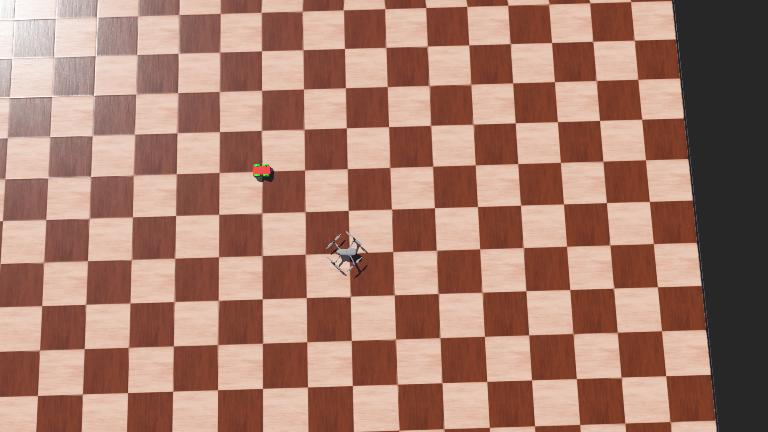
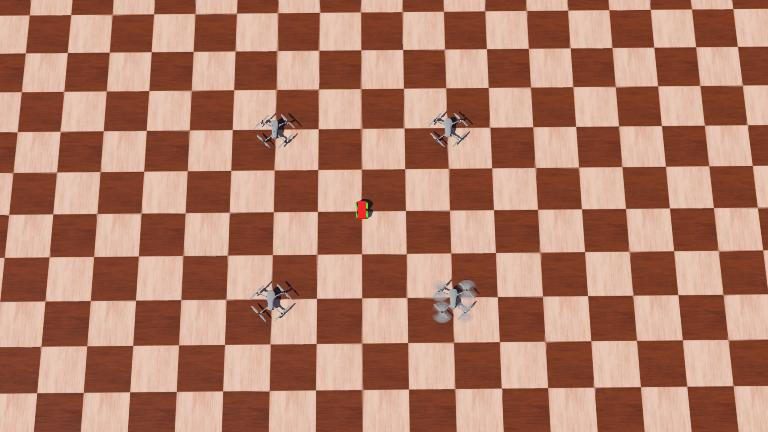
Working emitter and GPS versions

diff --git a/formation_control/formation_control/formation_controller_gps.py b/formation_control/formation_control/formation_controller_gps.py
@@ -1,0 +1,151 @@
+import rclpy
+from rclpy.node import Node
+import numpy as np
+from geometry_msgs.msg import Twist, Vector3, PointStamped, Point
+from interfaces.msg import SignalArray
+from .gradient import gradient
+from rclpy.impl import rcutils_logger
+
+
+class FormationControl(Node):
+    def __init__(self):
+        super().__init__('formation_control')
+        qos_policy = rclpy.qos.QoSProfile(reliability=rclpy.qos.ReliabilityPolicy.BEST_EFFORT,
+                                          history=rclpy.qos.HistoryPolicy.KEEP_LAST,
+                                          depth=1)
+
+        self.mavic_1_gps_sub = self.create_subscription(PointStamped, f'/Mavic_2_PRO_1/gps', self.mavic_1_gps_callback, qos_profile=qos_policy)
+        self.mavic_2_gps_sub = self.create_subscription(PointStamped, f'/Mavic_2_PRO_2/gps', self.mavic_2_gps_callback, qos_profile=qos_policy)
+        self.mavic_3_gps_sub = self.create_subscription(PointStamped, f'/Mavic_2_PRO_3/gps', self.mavic_3_gps_callback, qos_profile=qos_policy)
+        self.mavic_4_gps_sub = self.create_subscription(PointStamped, f'/Mavic_2_PRO_4/gps', self.mavic_4_gps_callback, qos_profile=qos_policy)
+
+        self.ground_pose_sub = self.create_subscription(Vector3, '/ground_robot/pose', self.ground_pose_callback, qos_profile=qos_policy)
+        self.ground_gps_sub = self.create_subscription(Vector3, '/ground_robot/gps', self.ground_gps_callback, qos_profile=qos_policy)
+        
+        self.vel_pubs = []
+        for i in range(4):
+            self.vel_pubs.append(self.create_publisher(Twist, f'/Mavic_2_PRO_{i+1}/cmd_vel', 10))
+
+        
+        self.logger = rcutils_logger.RcutilsLogger()
+
+        self.goals = np.array([[1,1],
+                              [-1,1],
+                              [-1,-1],
+                              [1,-1]])
+        
+        #self.gr_yaw = 0
+        
+        self.rot_mat = np.array([[np.cos(0), -np.sin(0)],
+                                 [np.sin(0), np.cos(0)]])
+        
+        self.mavic_pos = [[0,0], [0,0], [0,0], [0,0]]
+
+
+
+    def mavic_1_gps_callback(self, msg):
+        self.mavic_pos[0] = [msg.point.x, msg.point.y]
+
+    def mavic_2_gps_callback(self, msg):
+        self.mavic_pos[1] = [msg.point.x, msg.point.y]
+
+    def mavic_3_gps_callback(self, msg):
+        self.mavic_pos[2] = [msg.point.x, msg.point.y]
+
+    def mavic_4_gps_callback(self, msg):
+        self.mavic_pos[3] = [msg.point.x, msg.point.y]
+
+    def ground_pose_callback(self, msg):
+        #self.gr_yaw = msg.z
+        self.rot_mat = np.array([[np.cos(msg.z), -np.sin(msg.z)],
+                                 [np.sin(msg.z), np.cos(msg.z)]])
+        self.logger.info('yaw %g' %msg.z)
+
+
+    def ground_gps_callback(self, gps_msg):
+        relative_goals = []
+        for i in range(4):
+            goal = np.array([self.goals[i][0], self.goals[i][1]])
+            rot_goal = self.rot_mat @ goal
+
+            rel_x = gps_msg.x + rot_goal[0]
+            rel_y = gps_msg.y + rot_goal[1]
+
+            rel = np.array([rel_x, rel_y])
+            if i == 3:
+                self.logger.info('3 goal %s' % rot_goal)
+
+
+            relative_goals.append(rel)
+
+        for i, goal in enumerate(relative_goals):
+            grad = gradient(self.mavic_pos[i], goal, [[1000,1000],[-1000,-1000]])
+            vel_msg = Twist()
+            vel_msg.linear.x = -grad[0] * 500
+            vel_msg.linear.y = -grad[1] * 500
+
+            self.vel_pubs[i].publish(vel_msg)
+
+        
+
+
+    """
+    for i in range(4):
+        signal = msg.signals[i]
+
+        pos = self.calc_pos_from_signal(signal)
+        self.logger.info('x %g, y %g, i %d' % (pos[0], pos[1], i))
+
+        rot = np.array([[0, 1],
+                        [-1, 0]])
+        rot_mat = np.array([[np.cos(self.gr_yaw), -np.sin(self.gr_yaw)],
+                        [np.sin(self.gr_yaw), np.cos(self.gr_yaw)]])
+        #goal = rot @ goal
+        #goal = rot_mat @ goal
+
+        obstacles = [[100,100],[-100,-100]]
+
+        grad = gradient(pos, self.goals[i], obstacles)
+        #grad = rot @ grad
+        grad = rot_mat @ grad
+
+
+        vel_msg = Twist()
+        vel_msg.linear.x = -grad[0] * 1000
+        vel_msg.linear.y = -grad[1] * 1000
+
+        self.vel_pubs[i].publish(vel_msg)
+
+    def calc_pos_from_signal(self, signal):
+        str = signal.signal_strength
+        r = np.sqrt(1/str)
+        x = signal.signal_dir_x * r
+        y = signal.signal_dir_y * r
+        z = signal.signal_dir_z * r
+
+        vec_1 = np.array([x,y,z])
+        vec_2 = np.array([x,y,0])
+
+        projected = vec_2 * np.dot(vec_2, vec_1) / np.dot(vec_2, vec_2)
+        projected = projected[:2]
+
+        rot = np.array([[0, -1],
+                        [1, 0]])
+        #projected = rot @ projected
+
+        return [projected[0], projected[1]]
+    """
+
+
+
+
+
+def main(args=None):
+    rclpy.init(args=args)
+    formation_control = FormationControl()
+    rclpy.spin(formation_control)
+    formation_control.destroy_node()
+    rclpy.shutdown()
+    
+if __name__ == '__main__':
+    main()

diff --git a/formation_control/formation_control/ground_robot_driver_gps.py b/formation_control/formation_control/ground_robot_driver_gps.py
@@ -42,6 +42,7 @@ class GroundRobotDriver:
         self.__node.create_subscription(Twist, 'cmd_vel', self.__cmd_vel_callback, 1)
         self.signal_pub = self.__node.create_publisher(SignalArray, 'ground_robot/signals', 10)
         self.pose_pub = self.__node.create_publisher(Vector3, 'ground_robot/pose', 10)
+        self.gps_pub = self.__node.create_publisher(Vector3, 'ground_robot/gps', 10)
 
     def __cmd_vel_callback(self, twist):
         self.__target_twist = twist
@@ -49,8 +50,8 @@ class GroundRobotDriver:
     def step(self):
         rclpy.spin_once(self.__node, timeout_sec=0)
 
-        turn_left = 1
-        turn_right = 0.9
+        turn_left = 0.9
+        turn_right = 1
 
         speed = 1
 
@@ -60,32 +61,12 @@ class GroundRobotDriver:
         self.wheels[3].setVelocity(speed * turn_left)
 
 
-        if self.receiver.getQueueLength() > 0:
-            signal_msg = Signal()
-            signal_msg.signal_strength = self.receiver.getSignalStrength()
-            direction_em = self.receiver.getEmitterDirection()
-            signal_msg.signal_dir_x = direction_em[0]
-            signal_msg.signal_dir_y = direction_em[1]
-            signal_msg.signal_dir_z = direction_em[2]
-
-            self.signal_arr.append(signal_msg)
-            self.logger.info('channel %d' % len(self.signal_arr))
-            
-        #while self.receiver.getQueueLength() > 0:
-            self.receiver.nextPacket()
-
-        self.channel += 1
-        self.receiver.setChannel(self.channel)
-
-        if self.channel > 4:
-            self.logger.info('q len %d' % self.receiver.getQueueLength())
-            signal_arr_msg = SignalArray()
-            signal_arr_msg.signals = self.signal_arr
-            self.signal_pub.publish(signal_arr_msg)
-            self.channel = 1
-            self.receiver.setChannel(self.channel)
-            self.signal_arr = []
-
+        gps_msg = Vector3()
+        x, y, z = self.gps.getValues()
+        gps_msg.x = x
+        gps_msg.y = y
+        gps_msg.z = z
+        self.gps_pub.publish(gps_msg)
 
         pose_msg = Vector3()
         rpy = self.imu.getRollPitchYaw()

diff --git a/formation_control/formation_control/formation_controller.py b/formation_control/formation_control/formation_controller.py
@@ -17,13 +17,13 @@ class FormationControl(Node):
         self.pose_sub = self.create_subscription(Vector3, '/ground_robot/pose', self.pose_callback, qos_profile=qos_policy)
         self.pubs = []
         for i in range(4):
-            self.pubs.append(self.create_publisher(Twist, f'/drone{i+1}/cmd_vel', 10))
+            self.pubs.append(self.create_publisher(Twist, f'/Mavic_2_PRO_{i+1}/cmd_vel', 10))
         self.logger = rcutils_logger.RcutilsLogger()
 
-        self.goals = np.array([[1,1],
-                              [-1,1],
+        self.goals = np.array([[-1,1],
                               [-1,-1],
-                              [1,-1]])
+                              [1,-1],
+                              [1,1]])
         self.gr_yaw = 0
 
     def pose_callback(self, msg):
@@ -38,13 +38,14 @@ class FormationControl(Node):
             signal = msg.signals[i]
 
             pos = self.calc_pos_from_signal(signal)
-            self.logger.info('x %g, y %g' % (pos[0], pos[1]))
+            self.logger.info('x %g, y %g, i %d' % (pos[0], pos[1], i))
 
-            rot = np.array([[0, 1],
-                            [-1, 0]])
             rot_mat = np.array([[np.cos(self.gr_yaw), -np.sin(self.gr_yaw)],
                             [np.sin(self.gr_yaw), np.cos(self.gr_yaw)]])
-            #goal = rot @ goal
+            
+            rot = np.array([[0, 1],
+                        [-1, 0]])
+            #goal = rot @ self.goals[i]
             #goal = rot_mat @ goal
 
             obstacles = [[100,100],[-100,-100]]
@@ -55,8 +56,8 @@ class FormationControl(Node):
 
 
             vel_msg = Twist()
-            vel_msg.linear.x = -grad[0] * 1000
-            vel_msg.linear.y = -grad[1] * 1000
+            vel_msg.linear.x = -grad[0] * 500
+            vel_msg.linear.y = -grad[1] * 500
 
             self.pubs[i].publish(vel_msg)
 

diff --git a/formation_control/formation_control/mavic_driver_1.py b/formation_control/formation_control/mavic_driver_1.py
@@ -73,8 +73,7 @@ class MavicDriver:
         # ROS interface
         rclpy.init(args=None)
         self.__node = rclpy.create_node('mavic_driver_1')
-        self.__node.create_subscription(Twist, '/drone1/cmd_vel', self.__cmd_vel_callback, 1)
-        self.odom_pub = self.__node.create_publisher(Odometry, '/drone1/odom', 10)
+        self.__node.create_subscription(Twist, '/Mavic_2_PRO_1/cmd_vel', self.__cmd_vel_callback, 1)
 
     def __cmd_vel_callback(self, twist):
         self.__target_twist = twist
@@ -133,11 +132,3 @@ class MavicDriver:
         self.__propellers[1].setVelocity(m2)
         self.__propellers[2].setVelocity(m3)
         self.__propellers[3].setVelocity(-m4)
-
-
-        odom_msg = Odometry()
-        odom_msg.pose.pose.position.x = x_pos
-        odom_msg.pose.pose.position.y = y_pos
-        odom_msg.pose.pose.position.z = vertical
-
-        self.odom_pub.publish(odom_msg)

diff --git a/formation_control/formation_control/mavic_driver_2.py b/formation_control/formation_control/mavic_driver_2.py
@@ -73,8 +73,7 @@ class MavicDriver:
         # ROS interface
         rclpy.init(args=None)
         self.__node = rclpy.create_node('mavic_driver_2')
-        self.__node.create_subscription(Twist, '/drone2/cmd_vel', self.__cmd_vel_callback, 1)
-        self.odom_pub = self.__node.create_publisher(Odometry, '/drone2/odom', 10)
+        self.__node.create_subscription(Twist, '/Mavic_2_PRO_2/cmd_vel', self.__cmd_vel_callback, 1)
 
     def __cmd_vel_callback(self, twist):
         self.__target_twist = twist
@@ -133,11 +132,3 @@ class MavicDriver:
         self.__propellers[1].setVelocity(m2)
         self.__propellers[2].setVelocity(m3)
         self.__propellers[3].setVelocity(-m4)
-
-
-        odom_msg = Odometry()
-        odom_msg.pose.pose.position.x = x_pos
-        odom_msg.pose.pose.position.y = y_pos
-        odom_msg.pose.pose.position.z = vertical
-
-        self.odom_pub.publish(odom_msg)

diff --git a/formation_control/formation_control/mavic_driver_3.py b/formation_control/formation_control/mavic_driver_3.py
@@ -73,8 +73,7 @@ class MavicDriver:
         # ROS interface
         rclpy.init(args=None)
         self.__node = rclpy.create_node('mavic_driver_3')
-        self.__node.create_subscription(Twist, '/drone3/cmd_vel', self.__cmd_vel_callback, 1)
-        self.odom_pub = self.__node.create_publisher(Odometry, '/drone3/odom', 10)
+        self.__node.create_subscription(Twist, '/Mavic_2_PRO_3/cmd_vel', self.__cmd_vel_callback, 1)
 
     def __cmd_vel_callback(self, twist):
         self.__target_twist = twist
@@ -133,11 +132,3 @@ class MavicDriver:
         self.__propellers[1].setVelocity(m2)
         self.__propellers[2].setVelocity(m3)
         self.__propellers[3].setVelocity(-m4)
-
-
-        odom_msg = Odometry()
-        odom_msg.pose.pose.position.x = x_pos
-        odom_msg.pose.pose.position.y = y_pos
-        odom_msg.pose.pose.position.z = vertical
-
-        self.odom_pub.publish(odom_msg)

diff --git a/formation_control/formation_control/mavic_driver_4.py b/formation_control/formation_control/mavic_driver_4.py
@@ -73,8 +73,7 @@ class MavicDriver:
         # ROS interface
         rclpy.init(args=None)
         self.__node = rclpy.create_node('mavic_driver_4')
-        self.__node.create_subscription(Twist, '/drone4/cmd_vel', self.__cmd_vel_callback, 1)
-        self.odom_pub = self.__node.create_publisher(Odometry, '/drone4/odom', 10)
+        self.__node.create_subscription(Twist, '/Mavic_2_PRO_4/cmd_vel', self.__cmd_vel_callback, 1)
 
     def __cmd_vel_callback(self, twist):
         self.__target_twist = twist
@@ -133,11 +132,3 @@ class MavicDriver:
         self.__propellers[1].setVelocity(m2)
         self.__propellers[2].setVelocity(m3)
         self.__propellers[3].setVelocity(-m4)
-
-
-        odom_msg = Odometry()
-        odom_msg.pose.pose.position.x = x_pos
-        odom_msg.pose.pose.position.y = y_pos
-        odom_msg.pose.pose.position.z = vertical
-
-        self.odom_pub.publish(odom_msg)

diff --git a/formation_control/setup.py b/formation_control/setup.py
@@ -28,7 +28,7 @@ setup(
     tests_require=['pytest'],
     entry_points={
         'console_scripts': [
-            'mavic_driver = formation_control.mavic_driver:main',
+            #'mavic_driver = formation_control.mavic_driver:main',
             'formation_controller = formation_control.formation_controller:main',
             'ground_robot_driver = formation_control.ground_robot_driver:main'
         ],
